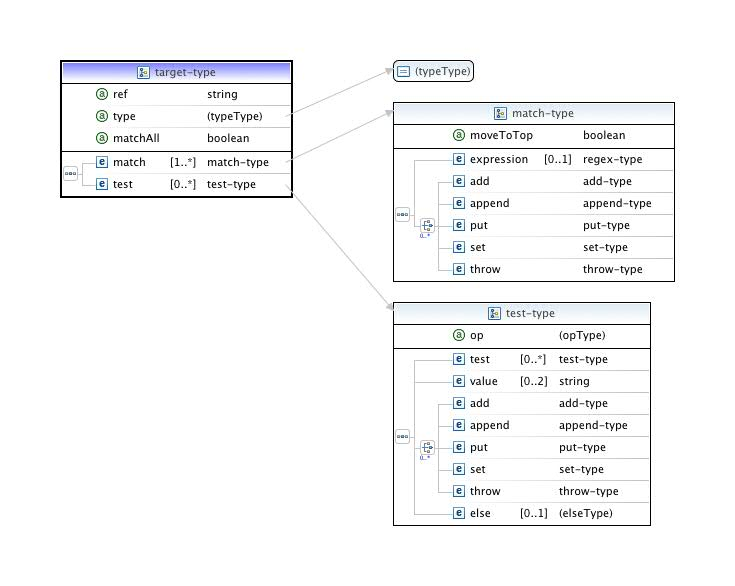
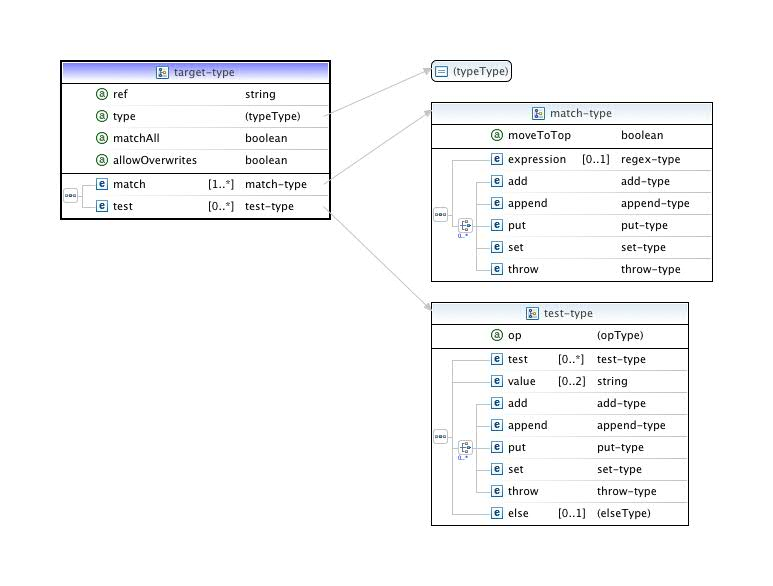
update of documentation to reflect recent adjustments to Target and AttributeViewer

diff --git a/rms/org.eclipse.ptp.rm.jaxb.help/html/JAXBHelpPage.html b/rms/org.eclipse.ptp.rm.jaxb.help/html/JAXBHelpPage.html
@@ -822,11 +822,14 @@
 		set on the object which are not explicitly bound in some way to that
 		name via the match pattern will appear on the stream before a new name
 		does (see ex. 5 in <a href="#TokenizerExamples">tokenizer examples</a>).
-		<b><i>Merge will fail if two objects with the same name
-				but differing values are generated by the parsing.</i> This excludes <code>add</code>
-			and <code>put</code> operations which create a list or map; in these
-			cases, the two collections or maps will be combined into one. This
-			does <i>NOT</i> work, however, for <code>append</code> actions. </b>
+		<b><i>The default behavior of this merge is that it will fail
+				if two objects with the same name but differing values are generated
+				by the parsing.</i> (This excludes <code>add</code> and <code>put</code>
+			operations which create a list or map; in these cases, the two
+			collections or maps will be combined into one. This does <i>NOT</i>
+			work, however, for <code>append</code> actions.) To allow duplicates,
+			set the <i>allowOverwrites</i> to true; in this case, duplicates
+			simply replace the preceding object. </b>
 	</p>
 
 	<p>The default behavior of the tokenizer read-match sequence is as
@@ -842,8 +845,7 @@
 						<li>if the match is positive, process each of the actions,
 							and go to (1).</li>
 					</ul>
-			</ul>
-		</li>
+			</ul></li>
 	</ol>
 
 	<p>
@@ -891,30 +893,25 @@
 
 	<table align="center" rules="all">
 		<tr>
-			<td><code>set</code>
-			</td>
+			<td><code>set</code></td>
 			<td>sets the value of that field</td>
 		</tr>
 		<tr>
-			<td><code>append</code>
-			</td>
+			<td><code>append</code></td>
 			<td>adds to a string buffer, whose string value will be set on
 				the field</td>
 		</tr>
 		<tr>
-			<td><code>add</code>
-			</td>
+			<td><code>add</code></td>
 			<td>adds to a trst to which the value of that field will be set</td>
 		</tr>
 		<tr>
-			<td><code>put</code>
-			</td>
+			<td><code>put</code></td>
 			<td>places a key-value pair in a map to which the value of that
 				field will be set</td>
 		</tr>
 		<tr>
-			<td><code>throw</code>
-			</td>
+			<td><code>throw</code></td>
 			<td>throws an exception and (optionally) also sets the value of
 				the field</td>
 		</tr>
@@ -1283,45 +1280,36 @@
 	<br>
 	<table align="center" rules="all">
 		<tr>
-			<td><code>label</code>
-			</td>
+			<td><code>label</code></td>
 			<td>fixed text for display</td>
 		</tr>
 		<tr>
-			<td><code>text</code>
-			</td>
+			<td><code>text</code></td>
 			<td>area for entering/editing text</td>
 		</tr>
 		<tr>
-			<td><code>checkbox</code>
-			</td>
+			<td><code>checkbox</code></td>
 			<td>corresponds to a boolean choice</td>
 		</tr>
 		<tr>
-			<td><code>radiobutton</code>
-			</td>
-			<td>usually used in connection with <code>button-group</code>
-			</td>
+			<td><code>radiobutton</code></td>
+			<td>usually used in connection with <code>button-group</code></td>
 		</tr>
 		<tr>
-			<td><code>spinner</code>
-			</td>
+			<td><code>spinner</code></td>
 			<td>provides a continuous range of integer values</td>
 		</tr>
 		<tr>
-			<td><code>combo</code>
-			</td>
+			<td><code>combo</code></td>
 			<td>select from a list of items</td>
 		</tr>
 		<tr>
-			<td><code>browse</code>
-			</td>
+			<td><code>browse</code></td>
 			<td>a text widget followed by a push button allowing the user to
 				browse for directory or file.</td>
 		</tr>
 		<tr>
-			<td><code>action</code>
-			</td>
+			<td><code>action</code></td>
 			<td>a push button associated with a <code>button-action</code>
 				command</td>
 		</tr>
@@ -1335,36 +1323,43 @@
 	<br>
 	<table align="center" rules="all">
 		<tr>
-			<td><i>title</i></td>
+			<td><i>title</i>
+			</td>
 			<td>used with <code>checkbox</code> and <code>push button</code>
 				widgets (<code>browse, action</code>) for the button label</td>
 		</tr>
 		<tr>
-			<td><i>style</i></td>
+			<td><i>style</i>
+			</td>
 			<td>carries the <code>SWT</code> style constants appropriate to
 				the widget type</td>
 		</tr>
 		<tr>
-			<td><i>directory</i></td>
+			<td><i>directory</i>
+			</td>
 			<td>limit the <code>browse</code> widget to directories</td>
 		</tr>
 		<tr>
-			<td><i>uri</i></td>
+			<td><i>uri</i>
+			</td>
 			<td>have the <code>browse</code> widget set a URI as the text
 				(default is false, in which case the text is an absolute path)</td>
 		</tr>
 		<tr>
-			<td><i>localOnly</i></td>
+			<td><i>localOnly</i>
+			</td>
 			<td>limit the <code>browse</code> widget to the local file
 				system (otherwise, the choice of local or remote is enabled)</td>
 		</tr>
 		<tr>
-			<td><i>readOnly</i></td>
+			<td><i>readOnly</i>
+			</td>
 			<td>applies to <code>text</code> and <code>combo</code> widgets;
 				the text area in this case is not editable</td>
 		</tr>
 		<tr>
-			<td><i>saveValueTo</i></td>
+			<td><i>saveValueTo</i>
+			</td>
 			<td>applies to all widgets except <code>label</code> and <code>action</code>;
 				the name of the property or attribute whose value should be set on
 				the basis of the widget's "selected" value or text<br> <b>Note:</b>
@@ -1372,7 +1367,8 @@
 				and <code>dynamic-text</code> elements.</td>
 		</tr>
 		<tr>
-			<td><i>translateBooleanAs</i></td>
+			<td><i>translateBooleanAs</i>
+			</td>
 			<td>applies to the <code>checkbox</code> widget; a
 				comma-delimited pair indicating a string equivalent for the boolean
 				to be used as the actual value for the property or attribute set by
@@ -1380,13 +1376,15 @@
 				the first string and false the second</td>
 		</tr>
 		<tr>
-			<td><code>sub-layout-data</code></td>
+			<td><code>sub-layout-data</code>
+			</td>
 			<td>applies to the <code>browse</code> widget; applies to the
 				button component, whereas <code>layout-data</code> applies to the
 				text area</td>
 		</tr>
 		<tr>
-			<td><code>items-from</code></td>
+			<td><code>items-from</code>
+			</td>
 			<td>applies to the <code>combo</code> widget; indicates a
 				property or attribute <i>value</i> (of type <code>java.util.Collection</code>)
 				to use to populate the items<br> <b>Note:</b> if a combo widget
@@ -1399,18 +1397,21 @@
 				choices)</td>
 		</tr>
 		<tr>
-			<td><code>fixed-text</code></td>
+			<td><code>fixed-text</code>
+			</td>
 			<td>applies to the <code>label</code> and (read-only) <code>text</code>
 				widgets; text is resolved once and remains constant thereafter</td>
 		</tr>
 		<tr>
-			<td><code>dynamic-text</code></td>
+			<td><code>dynamic-text</code>
+			</td>
 			<td>applies only to (read-only) <code>text</code> widgets; text
 				is resolved each time there is an update of a value from the Launch
 				Tab</td>
 		</tr>
 		<tr>
-			<td><code>button-action</code></td>
+			<td><code>button-action</code>
+			</td>
 			<td>applies to the <code>action</code> widget; the <code>button-action-type</code>
 				specifies the name of a command (<code>action</code>) defined in the
 				XML; this can be one of the <code>start-up</code> or <code>shut-down</code>,
@@ -1503,28 +1504,22 @@
 
 	<table align="center">
 		<tr>
-			<td><b>Name</b>
-			</td>
+			<td><b>Name</b></td>
 		</tr>
 		<tr>
-			<td><b>Value</b>
-			</td>
+			<td><b>Value</b></td>
 		</tr>
 		<tr>
-			<td><b>Type</b>
-			</td>
+			<td><b>Type</b></td>
 		</tr>
 		<tr>
-			<td><b>Status</b>
-			</td>
+			<td><b>Status</b></td>
 		</tr>
 		<tr>
-			<td><b>Default</b>
-			</td>
+			<td><b>Default</b></td>
 		</tr>
 		<tr>
-			<td><b>Description</b>
-			</td>
+			<td><b>Description</b></td>
 		</tr>
 	</table>
 	<br>
@@ -1596,7 +1591,10 @@
 		the latter case, attributes and properties can be excluded from the
 		set using
 		<code>exclude</code>
-		.
+		. The <i>initialCheckAll</i> field, which defaults to true, indicates
+		that if the attribute or property is new or undefined from a previous
+		session, it will appear as checked; turn this off if you want new
+		attributes or properties to appear at first as unchecked.
 	</p>
 
 	<p>

diff --git a/rms/org.eclipse.ptp.rm.jaxb.control.core/src/org/eclipse/ptp/rm/jaxb/control/internal/data/TargetImpl.java b/rms/org.eclipse.ptp.rm.jaxb.control.core/src/org/eclipse/ptp/rm/jaxb/control/internal/data/TargetImpl.java
@@ -332,13 +332,16 @@ public class TargetImpl implements IMatchable {
 	}
 
 	/**
-	 * Returns new value if first is false.
+	 * Checks if overwrites are allowed.
 	 * 
 	 * @param b0
 	 * @param b1
 	 * @return merged value
 	 */
 	private Boolean mergeBoolean(Boolean b0, Boolean b1) {
+		if (allowOverwrites) {
+			return b1;
+		}
 		if (!b0) {
 			return b1;
 		}
@@ -357,7 +360,10 @@ public class TargetImpl implements IMatchable {
 	private Integer mergeInteger(Integer i0, Integer i1) throws Throwable {
 		if (i0 == null) {
 			return i1;
-		} else if (i1 != null && !allowOverwrites) {
+		} else if (i1 != null) {
+			if (allowOverwrites) {
+				return i1;
+			}
 			throw new Throwable(Messages.StreamParserInconsistentPropertyWarning + i0 + JAXBControlConstants.CM
 					+ JAXBControlConstants.SP + i1);
 		}
@@ -383,10 +389,11 @@ public class TargetImpl implements IMatchable {
 				((Collection) v0).addAll((Collection) v1);
 			} else if (v0 instanceof Map && v1 instanceof Map) {
 				((Map) v0).putAll((Map) v1);
-			} else if (!allowOverwrites) {
-				throw new Throwable(Messages.StreamParserInconsistentPropertyWarning + v0 + JAXBControlConstants.CM
-						+ JAXBControlConstants.SP + v1);
+			} else if (allowOverwrites) {
+				return v1;
 			}
+			throw new Throwable(Messages.StreamParserInconsistentPropertyWarning + v0 + JAXBControlConstants.CM
+					+ JAXBControlConstants.SP + v1);
 		}
 		return v0;
 	}
@@ -434,7 +441,10 @@ public class TargetImpl implements IMatchable {
 	private String mergeString(String s0, String s1) throws Throwable {
 		if (s0 == null) {
 			return s1;
-		} else if (s1 != null && !allowOverwrites) {
+		} else if (s1 != null) {
+			if (allowOverwrites) {
+				return s1;
+			}
 			throw new Throwable(Messages.StreamParserInconsistentPropertyWarning + s0 + JAXBControlConstants.CM
 					+ JAXBControlConstants.SP + s1);
 		}
